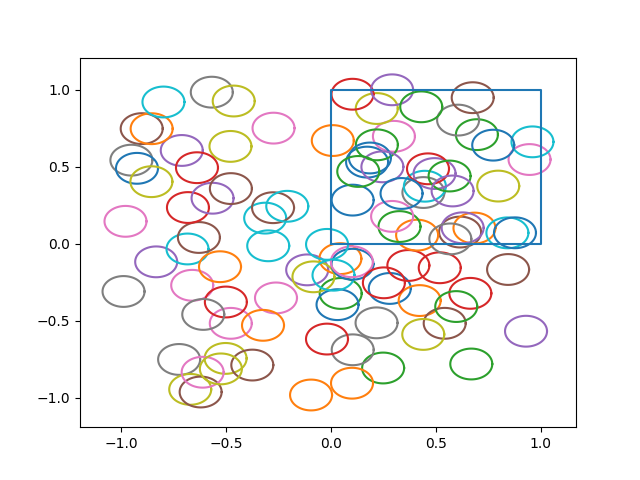
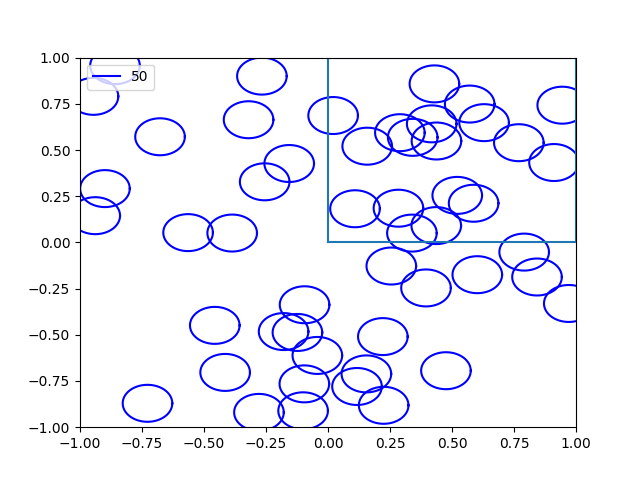
Going to change crossover function

diff --git a/genetic_algo.py b/genetic_algo.py
@@ -9,7 +9,11 @@ import matplotlib.pyplot as plt
 
 class Circle:
 
+    """ Circle class, each circle in the agent is represented by one of these circles """
+
     def __init__(self, _radius, _center, step = 100):
+
+        """ Creates cirlce given radius and center.  """
         
         #Var inits
         self.center = geometry.Point(_center)
@@ -18,6 +22,8 @@ class Circle:
         self.polygon = geometry.Polygon([[p.x, p.y] for p in self.point_list])
 
     def move_circle(self, amt_left, amt_right, step = 100):
+
+        """ Moves said circle by certain amount left or right.  """
 
         self.center = geometry.Point(self.center.x + amt_left, self.center.y + amt_right)
         self.point_list = [geometry.Point(self.radius * np.cos(theta) + self.center.x, self.radius * np.sin(theta) + self.center.y) for theta in np.linspace(0, 2 * np.pi, step)]
@@ -43,7 +49,10 @@ class Agent:
 
         for i in range(len(self.circle_list)):
             x,y = self.circle_list[i].polygon.exterior.xy
-            plt.plot(x,y)
+            plt.plot(x,y, c='b')
+
+        plt.legend([self.length], loc='upper left')
+            
         
 def double_intersection(polygon_list):
    
@@ -79,22 +88,32 @@ def total_area_fraction(bounding_box, polygon_list):
 
     return bounding_box.intersection(cascaded_union(polygon_list)).area / bounding_box.area
 
+def remove_irrelevent_circles(agent, region):
+    for circle in agent.circle_list:
+        if region.intersection(circle.polygon) == 0:
+            print(region.intersection(circle.polygon))
+            agent.circle_list.remove(circle)
+
 #GA part
-def init_agents(radius, soft_bounding_box, length = 100):
+def init_agents(radius, soft_bounding_box, length = 50):
 
     return [Agent(radius, soft_bounding_box, length) for _ in range(population)]
 
 def fitness(agent_list, region, bounding_box):
 
-    alpha = 1
-    beta = 1
-    chi = 1
+    alpha = 10
+    beta = 20
+    chi = 10
+    gamma = 20
 
     for agent in agent_list:
 
         agent_polygon_list = [circle.polygon for circle  in agent.circle_list]
+
         agent.fitness = (alpha * intersection_region_fraction(region, agent_polygon_list)) - (beta * double_intersection(agent_polygon_list))\
             - (chi * total_area_fraction(bounding_box, agent_polygon_list))
+        #print((alpha * intersection_region_fraction(region, agent_polygon_list)), (beta * double_intersection(agent_polygon_list))\
+            #, chi * total_area_fraction(bounding_box, agent_polygon_list), gamma * (agent.length/100), agent.fitness)
 
     return agent_list
 
@@ -102,7 +121,7 @@ def selection(agent_list):
 
     agent_list = sorted(agent_list, key=lambda agent: agent.fitness, reverse=True)
     #DARWINISM HAHHAA
-    agent_list = agent_list[:int(.2 * len(agent_list))]
+    agent_list = agent_list[:int(.5 * len(agent_list))]
 
     return agent_list
 
@@ -138,6 +157,9 @@ def crossover(agent_list, region):
         child2 = Agent(parent1.radius, parent1.bounding_box, parent1.length)
         child1.circle_list = parent1_circle_half_1 + parent2_circle_half_2
         child2.circle_list = parent2_circle_half_1 + parent1_circle_half_2
+        
+        remove_irrelevent_circles(child1, region)
+        remove_irrelevent_circles(child2, region)
 
         offspring.append(child1)
         offspring.append(child2)
@@ -152,14 +174,14 @@ def mutation(agent_list):
 
         for i, param in enumerate(agent.circle_list):
                 
-            if random.uniform(0, 1) <= .05:
+            if random.uniform(0, 1) <= .3:
 
                 agent.circle_list.pop(i)
                 agent.length -= 1
 
-            if random.uniform(0, 1) <= .2:
+            if random.uniform(0, 1) <= .4:
 
-                agent.circle_list[i].move_circle(random.uniform(-1, 1), random.uniform(-1, 1))
+                agent.circle_list[i - 1].move_circle(random.uniform(-1, 1), random.uniform(-1, 1))
 
     return agent_list
 
@@ -179,13 +201,15 @@ def ga(region, soft_bounding_box, hard_bounding_box):
         print()
         print("Executing stragllers")
         agent_list = selection(agent_list)
-        print("Darwin has spoken")
+        print("Darwin has spoken, {} candidates remain".format(len(agent_list)))
         print()
-        print(len(agent_list))
         agent_list[0].plot_agent()
+        plt.xlim([soft_bounding_box[0][0], soft_bounding_box[1][0]])
+        plt.ylim([soft_bounding_box[0][1], soft_bounding_box[1][1]])
         plt.plot(*region.exterior.xy)
         plt.savefig("frames/generation_{0:03d}".format(generation))
         print("frame saved in frames folder")
+        plt.close()
         print()
         print("Beginning candlelight dinner")
         agent_list = crossover(agent_list, region)
